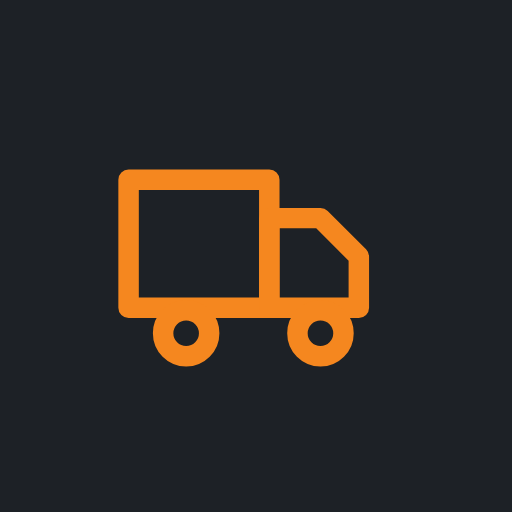
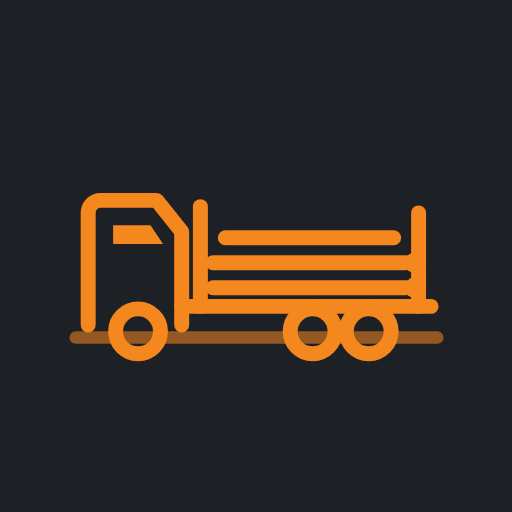
Add files via upload

Changed region(s): [[0.125, 0.3125, 0.875, 0.7188]]

diff --git a/panel.js b/panel.js
@@ -2,6 +2,7 @@ import { store } from "./store.js";
 import { can } from "./permissions.js";
 import { DOC_TYPES } from "./checklist.js";
 import { maintenanceAlerts } from "./maintenance.js";
+import { weekInfo, dayKey } from "./planning.js";
 import {
   I, esc, fmtCLP, fmtDate, fmtDateTime, monthKey, dInput, docStatus,
   iconSpan, emptyBox, toast, openSheet, closeSheet, $, $$
@@ -245,13 +246,33 @@ function orderRow(o, trucks) {
 }
 
 // Ficha de disponibilidad al tocar un camión en el semáforo.
-function availSheet(ctx, truckId, trucks, orders, fallas) {
+async function availSheet(ctx, truckId, trucks, orders, fallas) {
   const t = trucks.find(x => x.id === truckId); if (!t) return;
   const a = availStatus(truckId, orders, fallas);
   let body = '<div class="stat-truck" style="margin-bottom:16px"><span class="trucknum">' + esc(t.num) + "</span>" +
     '<div style="flex:1"><div style="font-weight:700;font-family:Barlow Semi Condensed;font-size:1.15rem">' + esc(t.marca + " " + (t.modelo || "")) + "</div>" +
     '<div style="margin-top:4px"><span class="plate">' + esc(t.patente) + "</span></div></div>" +
     '<span class="pill ' + a.cls + '"><span class="dot"></span>' + a.label + "</span></div>";
+
+  // Planificación de hoy para este camión.
+  try {
+    const [plans, faenas, users] = await Promise.all([store.listPlans(), store.listFaenas(), store.listUsers()]);
+    const dk = dayKey(Date.now()), wk = weekInfo(Date.now());
+    const plan = plans.find(p => p.id === wk.key);
+    const asigs = (plan && plan.asignaciones || []).filter(x => x.camionId === truckId && x.fecha === dk && x.faenaId)
+      .sort((x, y) => (x.turnoInicio || "").localeCompare(y.turnoInicio || ""));
+    const faN = id => { const f = faenas.find(z => z.id === id); return f ? f.nombre : "Faena"; };
+    const coN = uid => { const u = users.find(z => z.uid === uid); return u ? u.nombre : ""; };
+    if (asigs.length) {
+      body += '<div class="card pad" style="box-shadow:none;border-color:var(--line);margin-bottom:14px"><span class="eyebrow" style="display:block;margin-bottom:8px">Planificación de hoy</span>' +
+        asigs.map(x => '<div class="row" style="padding:7px 0"><span class="sev-stripe sev-baja" style="background:var(--accent)"></span><div class="rl">' +
+          '<div class="t">' + esc(faN(x.faenaId)) + ' <span class="pill neutral">' + (x.viajesObjetivo || 0) + " v.</span></div>" +
+          '<div class="m"><span>' + esc((x.turnoInicio || "--") + " ─ " + (x.turnoFin || "--")) + "</span>" +
+          (x.conductorId ? "<span>" + esc(coN(x.conductorId)) + "</span>" : "") + (x.volumenObjetivo ? "<span>" + x.volumenObjetivo + "</span>" : "") + "</div></div></div>").join("") + "</div>";
+    } else {
+      body += '<div class="meta-line" style="margin:-6px 0 14px;font-size:.82rem">Sin faena asignada hoy en la planificación.</div>';
+    }
+  } catch (e) { /* la planificación es complementaria */ }
 
   if (a.k === "operativo") {
     body += '<p class="meta-line">Operativo, sin novedades pendientes. Disponible para operar.</p>';

diff --git a/conductor.js b/conductor.js
@@ -63,9 +63,24 @@ function confirmTruck(ctx, t) {
 }
 
 async function home(view, ctx, t) {
-  const [cks, trips] = await Promise.all([store.listChecklists(), store.listTrips()]);
+  const [cks, trips, plans, faenas] = await Promise.all([store.listChecklists(), store.listTrips(), store.listPlans(), store.listFaenas()]);
   const doneToday = cks.some(c => c.truckId === t.id && todayKey(c.ts) === todayKey());
   const abiertos = trips.filter(v => v.truckId === t.id && v.estado !== "cerrado");
+  // Planificación del día para este camión.
+  const dkHoy = dayKey(Date.now()), wkHoy = weekInfo(Date.now());
+  const planHoy = plans.find(p => p.id === wkHoy.key);
+  const asigsHoy = (planHoy && planHoy.asignaciones || [])
+    .filter(a => a.camionId === t.id && a.fecha === dkHoy && a.faenaId)
+    .sort((a, b) => (a.turnoInicio || "").localeCompare(b.turnoInicio || ""));
+  const faNombre = id => { const f = faenas.find(x => x.id === id); return f ? f.nombre : "Faena"; };
+  const faUnidad = id => { const f = faenas.find(x => x.id === id); return f ? (f.unidad || "") : ""; };
+  const planCard = asigsHoy.length
+    ? '<div class="card pad section"><span class="eyebrow" style="display:block;margin-bottom:8px">Tu planificación de hoy</span>' +
+      asigsHoy.map(a => '<div class="row" style="padding:8px 0"><span class="sev-stripe sev-baja" style="background:var(--accent)"></span><div class="rl">' +
+        '<div class="t">' + esc(faNombre(a.faenaId)) + ' <span class="pill neutral">' + (a.viajesObjetivo || 0) + " v.</span></div>" +
+        '<div class="m"><span>' + esc((a.turnoInicio || "--") + " ─ " + (a.turnoFin || "--")) + "</span>" +
+        (a.volumenObjetivo ? "<span>" + a.volumenObjetivo + " " + esc(faUnidad(a.faenaId)) + "</span>" : "") + "</div></div></div>").join("") + "</div>"
+    : '<div class="card pad section"><span class="eyebrow" style="display:block;margin-bottom:6px">Planificación de hoy</span><p class="meta-line" style="margin:0">Este camión no tiene faena asignada hoy. Consulta con tu supervisor.</p></div>';
   const ckAlert = !doneToday
     ? '<div class="banner" id="c-ck-alert" style="cursor:pointer;border-left-color:var(--warn);background:var(--warn-soft)">' + I.alert +
       "<div><b>Registra el checklist de inicio de turno.</b> Es el siguiente paso antes de operar el camión.</div></div>"
@@ -87,6 +102,7 @@ async function home(view, ctx, t) {
                  : '<span class="pill warn"><span class="dot"></span>Falta checklist de hoy</span>') +
       (abiertos.length ? '<span class="pill warn"><span class="dot"></span>' + abiertos.length + " viaje(s) abierto(s)</span>" : "") +
       "</div></div>" +
+    planCard +
     '<div class="tiles section">' +
       tile("c-checklist", I.check, doneToday ? "Repetir checklist" : "Checklist de inicio de turno", doneToday ? "Ya registraste uno hoy" : "Revisa el camión antes de salir") +
       tile("c-combustible", I.fuel, "Cargar combustible", "Litros, precio, kilómetros y estación") +

diff --git a/sw.js b/sw.js
@@ -5,7 +5,7 @@
 // ►► AL PUBLICAR UNA VERSIÓN NUEVA: sube APP_VERSION aquí y el mismo número
 //    en window.BF_VERSION dentro de index.html. Con eso, al abrir la app
 //    aparece el botón "Actualizar" en los celulares.
-const APP_VERSION = "1.0.2";
+const APP_VERSION = "1.0.4";
 const BF_CACHE = "bf-cache-" + APP_VERSION;
 const CORE = ["./", "./index.html", "./styles.css", "./manifest.webmanifest",
   "./icon-192.png", "./icon-512.png", "./icon-maskable.png"];

diff --git a/index.html b/index.html
@@ -51,7 +51,7 @@
   </script>
   <script>
     // Versión visible de la app. Debe coincidir con APP_VERSION en sw.js.
-    window.BF_VERSION = "1.0.2";
+    window.BF_VERSION = "1.0.4";
   </script>
   <script type="module" src="main.js"></script>
   <script>
